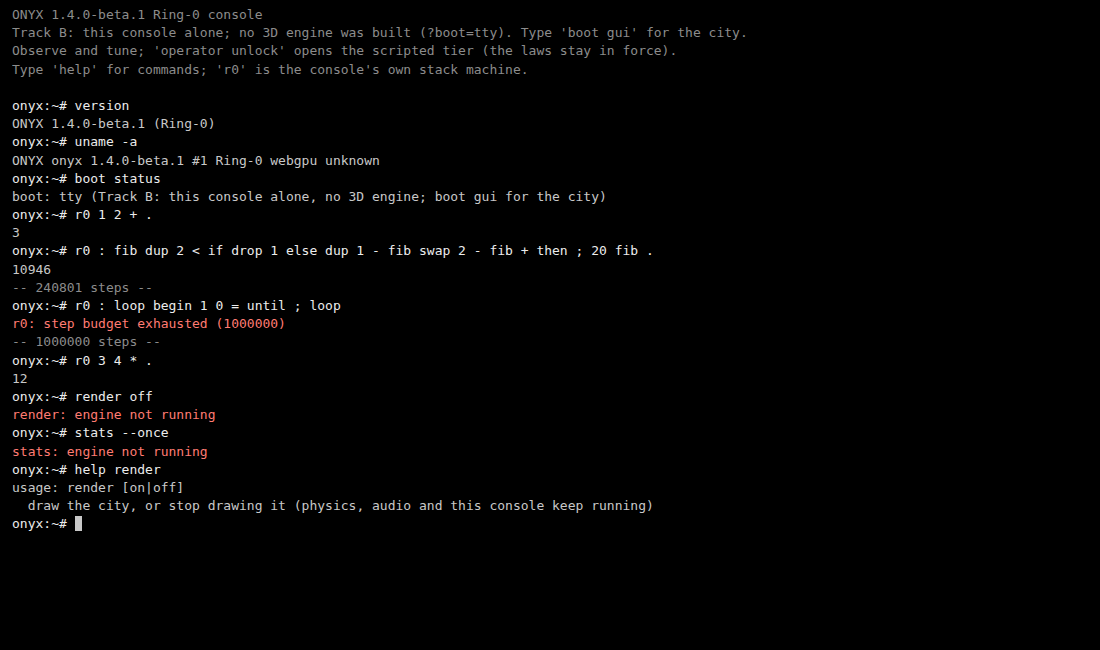
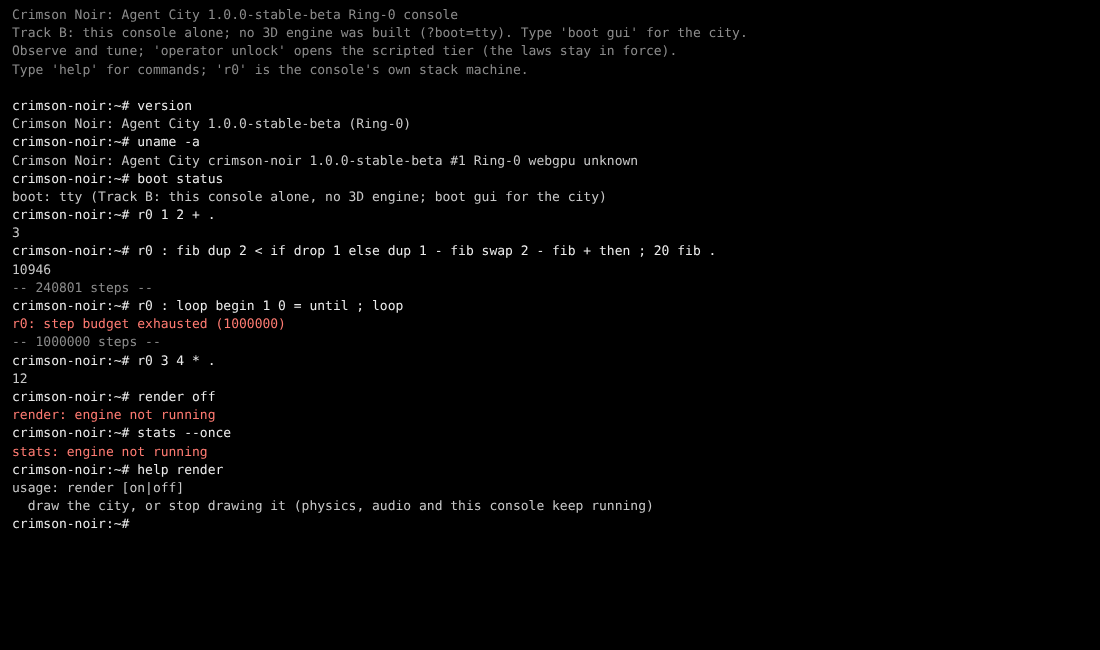
Title bar, phone HUD and the leftovers a review found
- TitleBar.tsx: the bar read "CRIMSON NOIR: AGENT CITY  AGENT CITY";
  it now shows the short name beside its own "Agent City" label.
- Hud.tsx: on a 375-390 px phone with a player name, "Crimson Noir"
  could wrap onto two lines; the brand stays on one line and the
  name tag truncates instead.
- docs/track-b-console.png: re-captured from ?boot=tty at this build
  (same commands), so the manual's console shows the new name.
- brand/tokens.json and brand/STYLE.md: the mark's geometry and the
  crimson rule describe the skyline, not the old triangle.
- NOTICE.md operator notes 6 and 7: the name is settled and the logo
  clearance advice is about a skyline mark.

Claude-Session: https://claude.ai/code/session_01HdRNrGMpNjKZsJ5q9xu3XX

diff --git a/src/07_Execute_Actions/Hud.tsx b/src/07_Execute_Actions/Hud.tsx
@@ -371,7 +371,7 @@ export function Hud({ s, adapter, visible, terminalOpen = false, mapLayer = null
                 <div className={`flex max-w-full items-center gap-2.5 py-2 pr-3.5 pl-2.5 ${panel}`} data-hud="panel">
                   <MonolithLogo size={28} title="" />
                   <div className="min-w-0">
-                    <div className="flex min-w-0 items-center text-[14px] leading-tight font-semibold tracking-tight">{BRAND.short}{nameTag}</div>
+                    <div className="flex min-w-0 items-center text-[14px] leading-tight font-semibold tracking-tight"><span className="shrink-0 whitespace-nowrap">{BRAND.short}</span>{nameTag}</div>
                     <div className={`truncate text-[11px] ${muted}`}>{c.district}</div>
                   </div>
                   <div className={divider} />

diff --git a/src/07_Execute_Actions/TitleBar.tsx b/src/07_Execute_Actions/TitleBar.tsx
@@ -71,7 +71,7 @@ export function TitleBar() {
     >
       <div data-tauri-drag-region className="flex h-full items-center gap-3 pl-3">
         <span className="pointer-events-none flex"><MonolithLogo size={16} title="" /></span>
-        <span data-tauri-drag-region className="noir-label text-noir-titanium-200">{BRAND.name}</span>
+        <span data-tauri-drag-region className="noir-label text-noir-titanium-200">{BRAND.short}</span>
         <span data-tauri-drag-region className="noir-label hidden sm:inline">Agent City</span>
       </div>
       <div className="flex h-full items-stretch">

diff --git a/NOTICE.md b/NOTICE.md
@@ -151,13 +151,13 @@ release; each one is something the release engineering could not confirm.
 5. **Notice placement.** The ORC Notice is on the Concierge card and embedded, with the full attribution,
    in `dist/index.html`. If the product is listed in a store or on a web page, repeat this notice in its
    credits or legal page ("in a reasonable manner based on the medium", Section III).
-6. **Name clearance.** `BRAND.name` is provisional. The notes below are preliminary web research,
-   not a clearance search. Commission a full search (USPTO, CIPO, EUIPO; classes 9, 41 and 42) before
+6. **Name clearance.** `BRAND.name` is Crimson Noir: Agent City (settled 2026-10-16). The notes below are
+   preliminary web research on the earlier candidates, not a clearance search. Commission a full search (USPTO, CIPO, EUIPO; classes 9, 41 and 42) before
    filing or launching. When the name changes, update `src/brand.ts`, this file and `LICENSE`.
    `degrees.test.ts` fails if this file does not name the current `BRAND.name`.
-7. **Logo clearance.** A triangle in a dark rounded square is a simple geometric mark. Compare it with
-   triangle marks in software and developer tools (for example Vercel's triangle) before registering.
-   "Monolith" is only the internal component name. Do not use it as a public name: MONOLITH is
+7. **Logo clearance.** A city skyline in a dark rounded square is a common motif. Compare it with skyline
+   and city-silhouette marks in games and software before registering. "Monolith" is only the internal
+   component name, kept from the earlier triangle mark. Do not use it as a public name: MONOLITH is
    associated in games with Monolith Productions (Warner Bros. Games; the studio closed in 2025, but
    the mark may still be held) and Monolith Soft (Nintendo).
 8. **"14A".** 14A is a Canadian provincial film classification, not a video-game rating (games in

diff --git a/CHANGELOG.md b/CHANGELOG.md
@@ -124,12 +124,12 @@ version, `0.9.0` (the technical design document's), which is sealed into `contai
 ### Changed
 
 - **The app is called Crimson Noir: Agent City everywhere, with a new mark.** The page title, the boot splash, the
-  HUD, the "couldn't start" card, the Windows title bar, the console's `version`, `uname` and prompt, recordings'
-  file names and the shipped notice all said ONYX, the old working name, and showed its black square with a white
-  triangle. They now read Crimson Noir: Agent City (Crimson Noir on a phone's HUD and home screen) and show a new
-  mark drawn from the cover art: five towers and a spire over one crimson street line on an ink square. The Windows
-  app's icons and installer icon and the home-screen icons are rendered from the same shapes. Unverified without a
-  GPU: how the mark looks in the running city.
+  HUD, the "couldn't start" card, the Windows title bar, the console's `version`, `uname` and prompt, recordings' file
+  names and the shipped notice all showed the old working name and its black square with a white triangle. They now
+  read Crimson Noir: Agent City (Crimson Noir on a phone's HUD and home screen) and show a new mark drawn from the
+  cover art: five towers and a spire over one crimson street line on an ink square. The Windows app's icons and
+  installer icon and the home-screen icons are rendered from the same shapes. Unverified without a GPU: how the mark
+  looks in the running city.
 - **The crowd slides along walls**: the part of a step a wall or a piece of furniture refuses is taken out of the
   pedestrian's velocity, so they slide along it instead of pressing into it. Nobody walked into buildings before
   either: every lot was solid and the crowd kept 0.35 m outside it.

diff --git a/brand/STYLE.md b/brand/STYLE.md
@@ -14,8 +14,8 @@ are in `brand/marks/`. `brand/preview.html` shows all of it in one page.
 1. **Minimal.** One accent, two materials, one face. A screen shows what the operator needs and nothing it does not.
 2. **Industrial luxury.** Surfaces are Vantablack and anodized titanium: matte, flat, hairline-edged. No gradients,
    no glow, no frosted glass, no drop shadow but the mark's own.
-3. **Precise geometry.** Everything sits on a 4pt grid; corners share the mark's family of radii; crimson is a line,
-   a point or a triangle, never a wash.
+3. **Precise geometry.** Everything sits on a 4pt grid; corners share the mark's family of radii; crimson is a line
+   or a point, never a wash.
 4. **Quiet motion.** Two durations, one curve. Things reveal; they do not bounce.
 
 ## Palette
